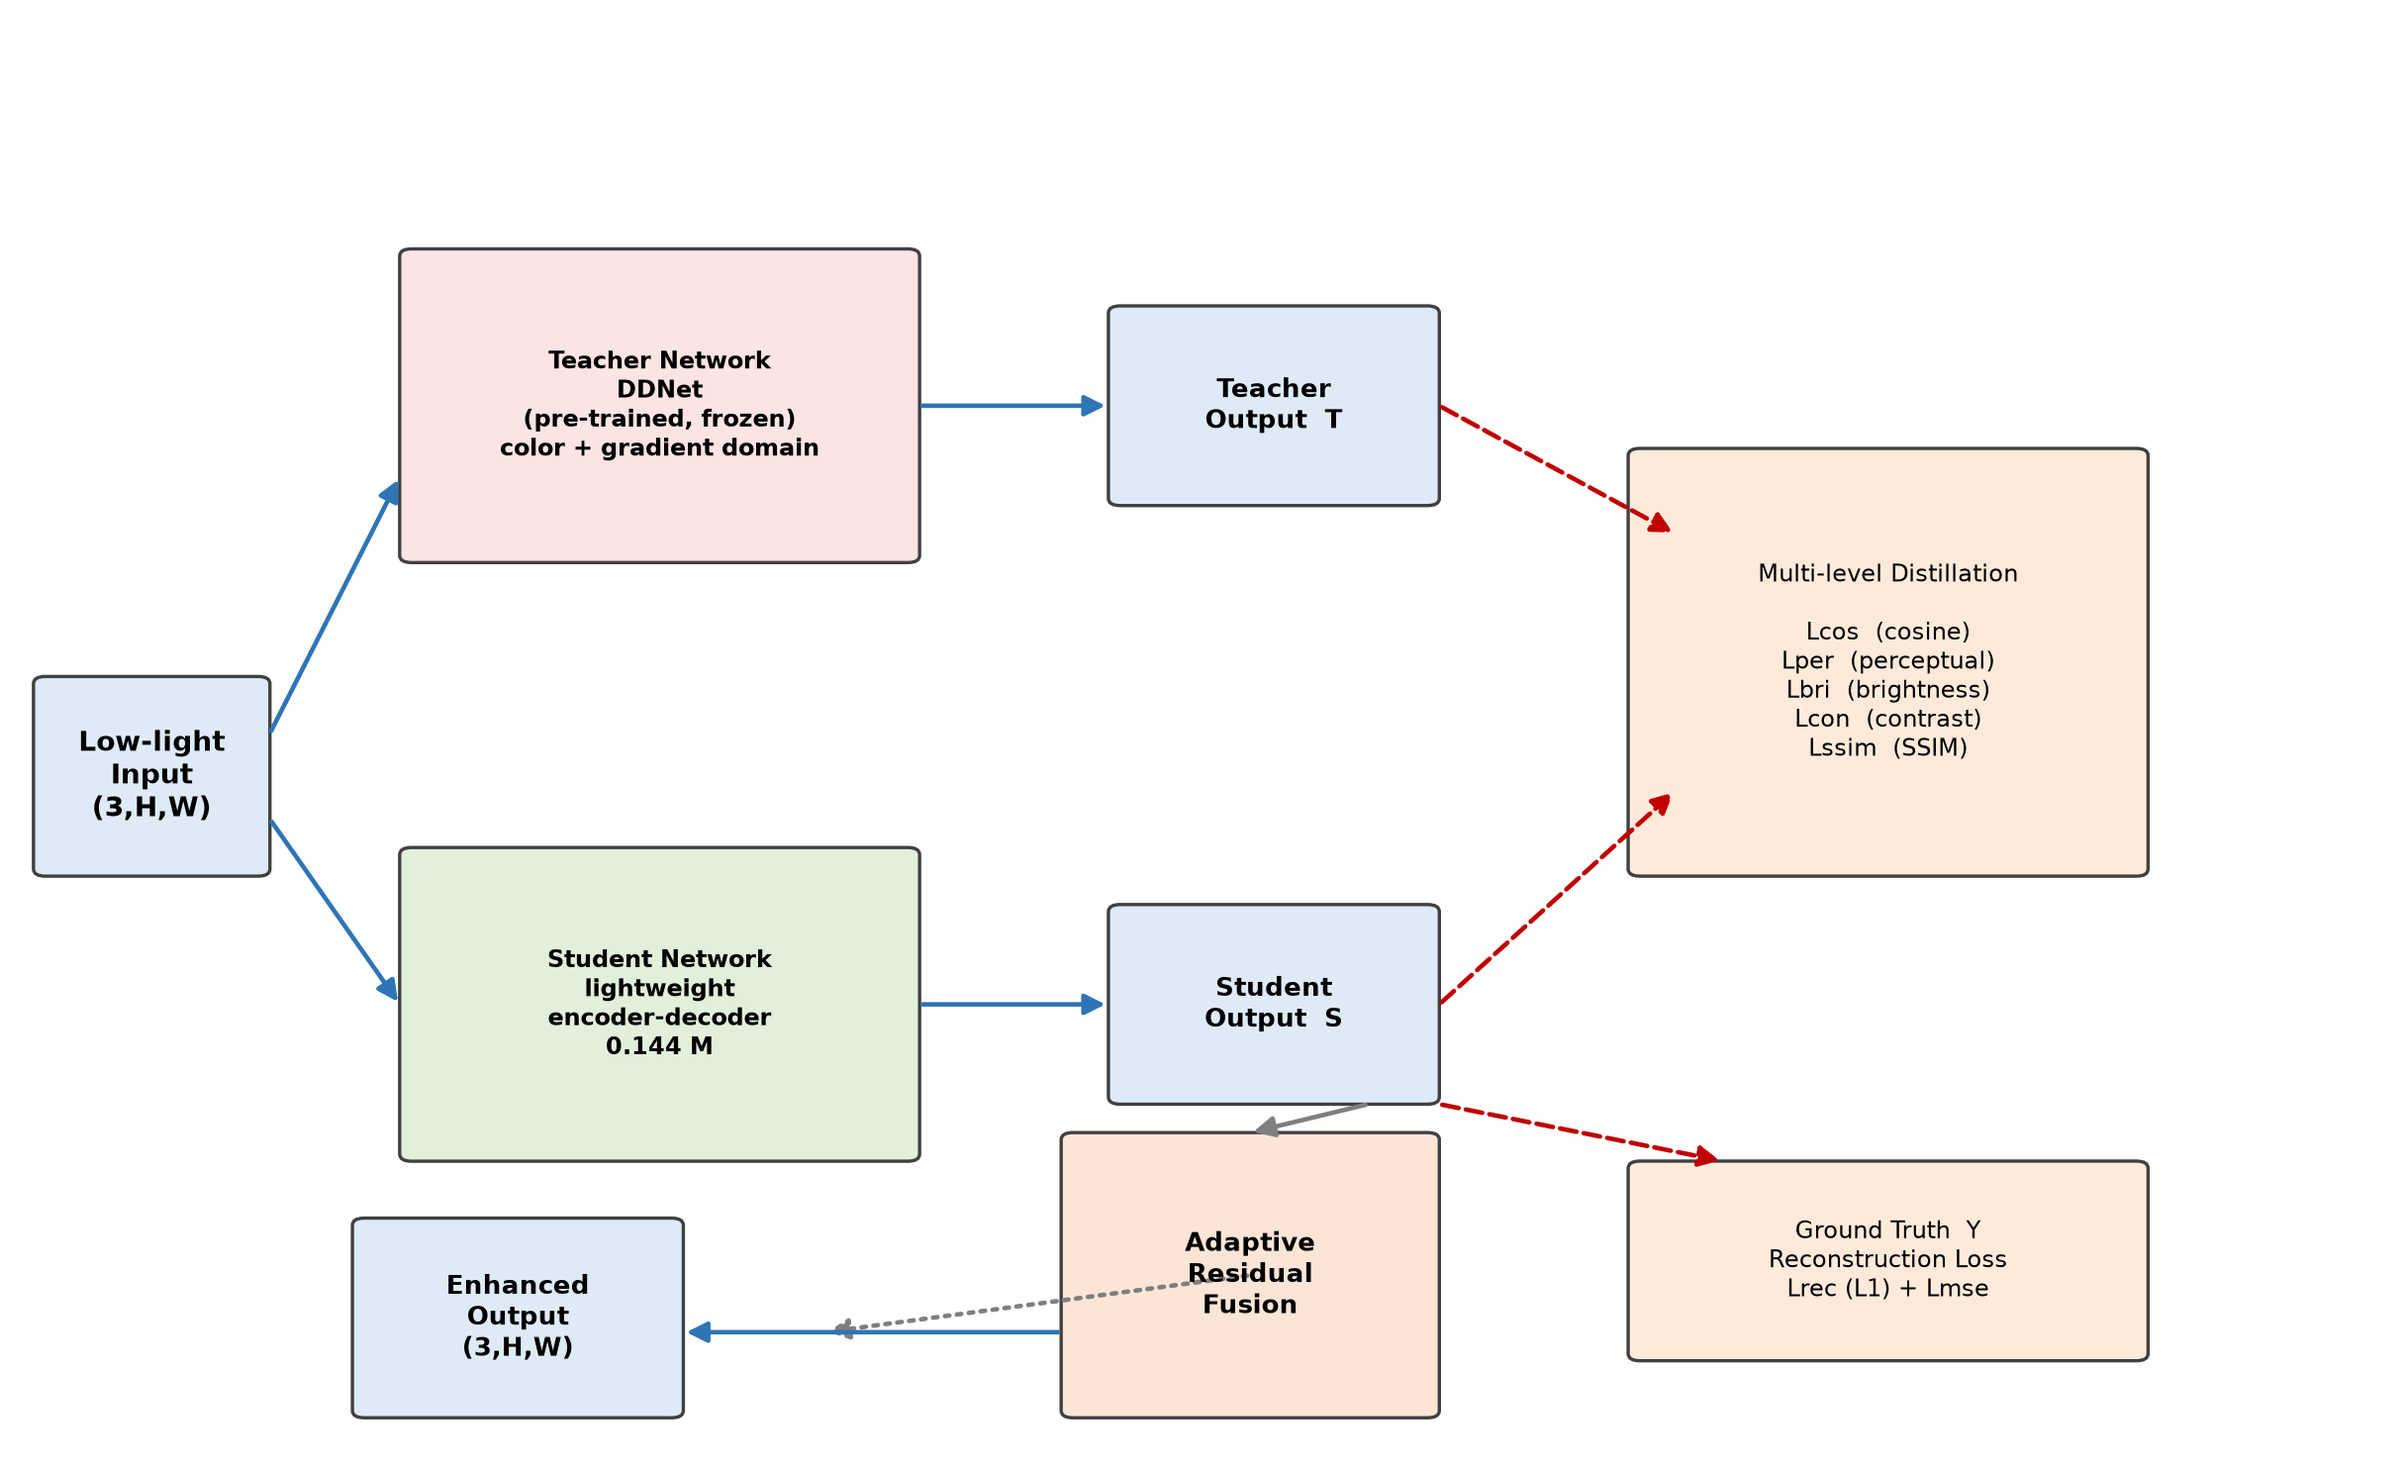
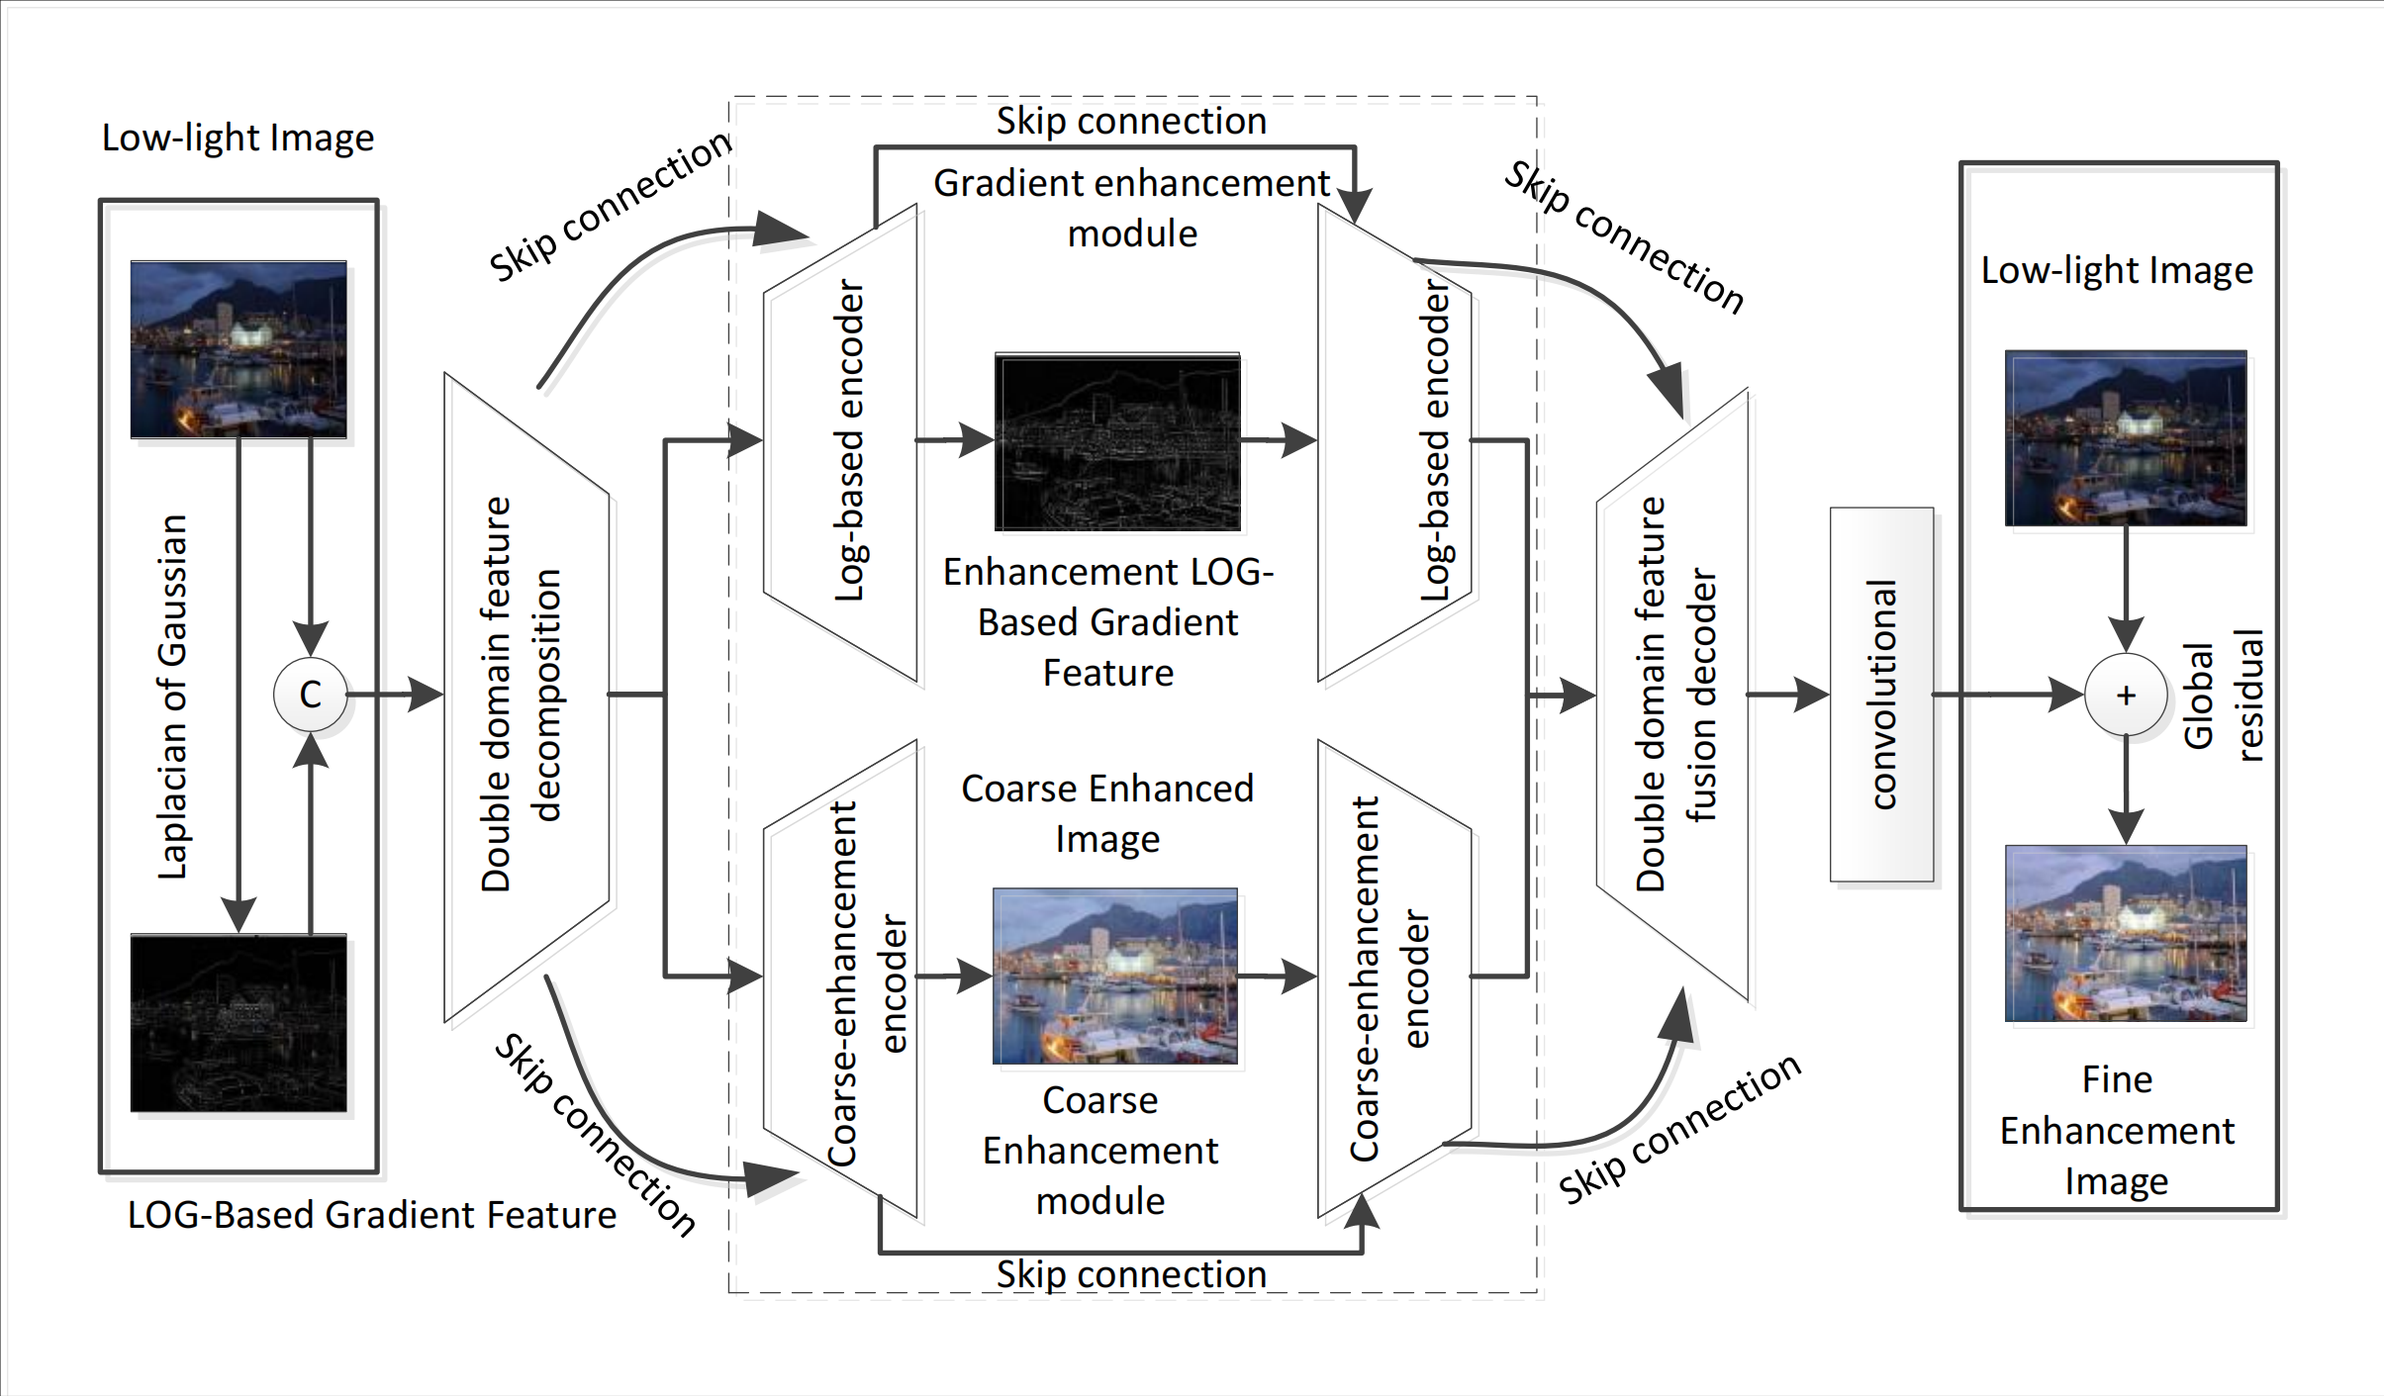
图题规范化并重排图序：图1=DDNet架构、图2=蒸馏框架、图3=学生架构、图4=视觉对比；修正GEM/CEM术语

diff --git a/paper.md b/paper.md
@@ -56,13 +56,21 @@ During training, a low-light image is simultaneously input into both the teacher
 
 ### B. Teacher Model
 
-The teacher model employs a multi-stage architecture for fusion-decomposition-fusion processing of the color domain and gradient domain. To facilitate understanding, Fig. 1 illustrates the architectural design of DDNet. Specifically, the low-light image is first concatenated with its corresponding gradient feature map based on LoG and then fed into the network. This architecture introduces six self-calibrating convolutions (ScCAM) with attention modules into the peripheral encoder, decoder, Global Energy Module (GEM), and Convolutional Energy Module (CEM), respectively.
+The teacher model employs a multi-stage architecture for fusion-decomposition-fusion processing of the color domain and gradient domain. To facilitate understanding, Fig. 1 illustrates the architectural design of DDNet. Specifically, the low-light image is first concatenated with its corresponding gradient feature map based on LoG and then fed into the network. This architecture introduces six self-calibrating convolutions (ScCAM) with attention modules into the peripheral encoder, decoder, Gradient Enhancement Module (GEM), and Coarse Enhancement Module (CEM), respectively.
 
-![Fig. 1 DDNet teacher-model architecture](figs/fig1.png)
+![DDNet teacher-model architecture](figs/fig1.png)
+
+**Fig. 1**  DDNet teacher-model architecture
+
+Fig. 2 illustrates the overall knowledge distillation framework of the proposed method. The low-light image is fed simultaneously into the pre-trained teacher model DDNet and the student model. The teacher, with frozen weights, provides the dual-domain enhancement reference output T, while the student output S is aligned with the teacher output through a multi-level distillation loss (cosine similarity, perceptual, brightness, contrast, and SSIM). Meanwhile, the normal-light ground-truth image Y serves as an anchor for the reconstruction loss, and the final enhanced image is produced via adaptive residual fusion.
+
+![Overall teacher-student knowledge distillation framework of the proposed method](figs/fig2.png)
+
+**Fig. 2**  Overall teacher-student knowledge distillation framework of the proposed method
 
 ### C. Student Model Design
 
-To meet the demand for real-time low-light image enhancement, this study proposes a lightweight image enhancement network based on knowledge distillation. This network aims to inherit the enhancement capabilities of the dual-domain guided teacher model (DDNet) while significantly reducing computational complexity to meet the real-time processing requirements of ultra-high-definition video streams. As shown in Fig. 2, the student model adopts an encoder-decoder architecture. Its core design lies in achieving efficient image enhancement with limited parameters through depthwise separable convolutions, a simplified attention mechanism, and adaptive residual fusion.
+To meet the demand for real-time low-light image enhancement, this study proposes a lightweight image enhancement network based on knowledge distillation. This network aims to inherit the enhancement capabilities of the dual-domain guided teacher model (DDNet) while significantly reducing computational complexity to meet the real-time processing requirements of ultra-high-definition video streams. As shown in Fig. 3, the student model adopts an encoder-decoder architecture. Its core design lies in achieving efficient image enhancement with limited parameters through depthwise separable convolutions, a simplified attention mechanism, and adaptive residual fusion.
 
 The network input is a three-channel low-light image. First, basic features are extracted through an initial convolutional layer. Subsequently, the features undergo downsampling and abstraction through a two-level encoder: the first-level encoder consists of depthwise separable convolutions and max pooling, expanding the number of channels to 64 and halving the spatial resolution; the second-level encoder further expands the channels to 128 and reduces the resolution to 1/4 of the original through depthwise separable convolutions, residual blocks, and pooling operations. The encoded high-dimensional features are then fed into a bottleneck layer. This layer first expands the channels to 256 through depthwise separable convolutions and residual blocks, and then introduces a lightweight simplified channel attention module.
 
@@ -82,7 +90,9 @@ where ⊗ denotes element-wise channel multiplication. This design significantly
 
 The decoding process aims to restore the spatial details and original resolution of the image. The first-level decoder processes the attention-weighted features with depthwise separable convolutions, recovers half of the resolution via bilinear upsampling, and then concatenates and fuses them with the output features of the first-level encoder through skip connections. The second-level decoder operates similarly, finally fusing with the features from the initial convolutional layer to fully restore the resolution to the original size. The network's final output layer generates a preliminary enhancement result I_enh through convolution and the Sigmoid activation function.
 
-![Fig. 2 Architecture of the lightweight student model](figs/fig2.png)
+![Architecture of the lightweight student model](figs/fig3.png)
+
+**Fig. 3**  Architecture of the lightweight student model
 
 To balance enhancement effects and naturalness, an adaptive residual fusion module is designed. This module dynamically fuses the original input I_in with the network output I_enh through two learnable parameters α and β, yielding the final enhanced image I_out:
 
@@ -161,9 +171,11 @@ In summary, the full optimized model proposed in this paper (0.144 M parameters,
 
 ### 4.4 Analysis of Subjective Visual Effects
 
-Fig. 3 shows a comparison of enhancement results by different methods in low-light scenes against the normal-light ground truth. Combined with the performance of objective metrics, the visual performance of our method can be further verified:
+Fig. 4 shows a comparison of enhancement results by different methods in low-light scenes against the normal-light ground truth. Combined with the performance of objective metrics, the visual performance of our method can be further verified:
 
-![Fig. 3 Visual comparison of low-light image enhancement results](figs/fig3.png)
+![Visual comparison of low-light image enhancement results](figs/fig4.png)
+
+**Fig. 4**  Visual comparison of low-light image enhancement results
 
 - **Brightness Match with Ground Truth:** The brightness of the enhancement results from our method is highly consistent with the ground truth. The overall brightness is uniform across all scenes, with no local overexposure or underexposure (e.g., the bathroom scene in column 2, the doll area in column 7). In contrast, DDNet's brightness is slightly higher than the ground truth; Zero-DCE and SCI have significantly lower brightness; HE and Dong's enhancement results remain close to the low-light input, showing a large gap from the ground truth.
 - **Detail and Texture Fidelity:** Our method completely preserves the texture details of objects (e.g., clothing wrinkles in column 3, paper edges in column 8), achieving the highest consistency in details with the ground truth. DDNet shows slight detail blurring (e.g., doll fur in column 6). Zero-DCE and SCI exhibit artifacts in high-contrast areas (e.g., the door frame in column 1). HE and Dong lose a large amount of detail in dark areas (e.g., the outlines of items on the storage shelf in column 9).

diff --git a/paper_zh.md b/paper_zh.md
@@ -56,13 +56,21 @@
 
 ### B. 教师模型
 
-教师模型采用多阶段架构，对颜色域和梯度域进行“融合-分解-融合”处理。为便于理解，图 1 展示了 DDNet 的架构设计。具体而言，低光照图像首先与其基于 LoG 计算得到的梯度特征图进行拼接，再输入网络。该架构在外围编码器、解码器、全局能量模块（GEM）和卷积能量模块（CEM）中分别引入了六个带注意力模块的自校准卷积（ScCAM）。
+教师模型采用多阶段架构，对颜色域和梯度域进行“融合-分解-融合”处理。为便于理解，图 1 展示了 DDNet 的架构设计。具体而言，低光照图像首先与其基于 LoG 计算得到的梯度特征图进行拼接，再输入网络。该架构在外围编码器、解码器、梯度增强模块（GEM）和粗增强模块（CEM）中分别引入了六个带注意力模块的自校准卷积（ScCAM）。
 
-![图 1 DDNet 教师模型架构](figs/fig1.png)
+![DDNet 教师模型架构](figs/fig1.png)
+
+**图 1**  DDNet 教师模型架构
+
+图 2 展示了所提方法的整体知识蒸馏框架。低光照图像同时输入预训练教师模型 DDNet 与学生模型；教师模型以冻结权重提供双域增强的参考输出 T，学生输出 S 通过多级蒸馏损失（余弦相似度、感知、亮度、对比度与 SSIM）与教师输出对齐，同时以正常光照真实图像 Y 为锚点计算重建损失，最终经自适应残差融合输出增强图像。
+
+![所提方法的教师-学生知识蒸馏总体框架](figs/fig2.png)
+
+**图 2**  所提方法的教师-学生知识蒸馏总体框架
 
 ### C. 学生模型设计
 
-为满足实时低光照图像增强的需求，本研究提出了一种基于知识蒸馏的轻量级图像增强网络。该网络旨在继承双域引导教师模型（DDNet）的增强能力，同时大幅降低计算复杂度，以满足超高清视频流的实时处理要求。如图 2 所示，学生模型采用编码器-解码器架构，其核心设计在于通过深度可分离卷积、简化注意力机制和自适应残差融合，在有限参数下实现高效图像增强。
+为满足实时低光照图像增强的需求，本研究提出了一种基于知识蒸馏的轻量级图像增强网络。该网络旨在继承双域引导教师模型（DDNet）的增强能力，同时大幅降低计算复杂度，以满足超高清视频流的实时处理要求。如图 3 所示，学生模型采用编码器-解码器架构，其核心设计在于通过深度可分离卷积、简化注意力机制和自适应残差融合，在有限参数下实现高效图像增强。
 
 网络输入为三通道低光照图像。首先，通过初始卷积层提取基础特征。随后，特征经过两级编码器进行下采样和抽象：第一级编码器由深度可分离卷积和最大池化组成，将通道数扩展到 64，并将空间分辨率减半；第二级编码器通过深度可分离卷积、残差块和池化操作，进一步将通道数扩展到 128，并将分辨率降至原始的 1/4。编码得到的高维特征随后输入瓶颈层。该层先通过深度可分离卷积和残差块将通道数扩展到 256，再引入轻量级的简化通道注意力模块。
 
@@ -82,7 +90,9 @@
 
 解码过程旨在恢复图像的空间细节和原始分辨率。第一级解码器对注意力加权后的特征进行深度可分离卷积处理，通过双线性上采样恢复一半的分辨率，再通过跳跃连接与第一级编码器的输出特征进行拼接融合。第二级解码器以类似方式运行，最终与初始卷积层的特征融合，将分辨率完全恢复到原始尺寸。网络的最终输出层通过卷积和 Sigmoid 激活函数生成初步增强结果 I_enh。
 
-![图 2 轻量级学生模型架构](figs/fig2.png)
+![轻量级学生模型架构](figs/fig3.png)
+
+**图 3**  轻量级学生模型架构
 
 为平衡增强效果与自然度，设计了一个自适应残差融合模块。该模块通过两个可学习参数 α 和 β 动态融合原始输入 I_in 与网络输出 I_enh，得到最终增强图像 I_out：
 
@@ -161,9 +171,11 @@
 
 ### 4.4 主观视觉效果分析
 
-图 3 展示了不同方法在低光照场景下的增强结果与正常光照真实图像的对比。结合客观指标的表现，可进一步验证本文方法的视觉效果：
+图 4 展示了不同方法在低光照场景下的增强结果与正常光照真实图像的对比。结合客观指标的表现，可进一步验证本文方法的视觉效果：
 
-![图 3 低光照图像增强结果视觉对比](figs/fig3.png)
+![低光照图像增强结果视觉对比](figs/fig4.png)
+
+**图 4**  低光照图像增强结果视觉对比
 
 - **与真实图像的亮度匹配：** 本文方法增强结果的亮度与真实图像高度一致，各场景整体亮度均匀，无局部过曝或欠曝（如第 2 列的浴室场景、第 7 列的玩偶区域）。相比之下，DDNet 的亮度略高于真实图像；Zero-DCE 和 SCI 的亮度明显偏低；HE 和 Dong 的增强结果仍接近低光照输入，与真实图像差距较大。
 - **细节与纹理保真度：** 本文方法完整保留了物体的纹理细节（如第 3 列的衣物褶皱、第 8 列的纸张边缘），与真实图像在细节上的一致性最高。DDNet 存在轻微的细节模糊（如第 6 列的玩偶绒毛）。Zero-DCE 和 SCI 在高对比度区域出现伪影（如第 1 列的门框）。HE 和 Dong 在暗部区域丢失了大量细节（如第 9 列的置物架物品轮廓）。
